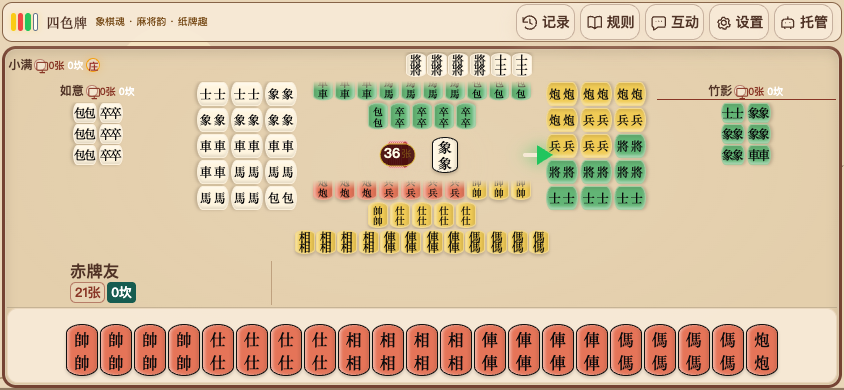
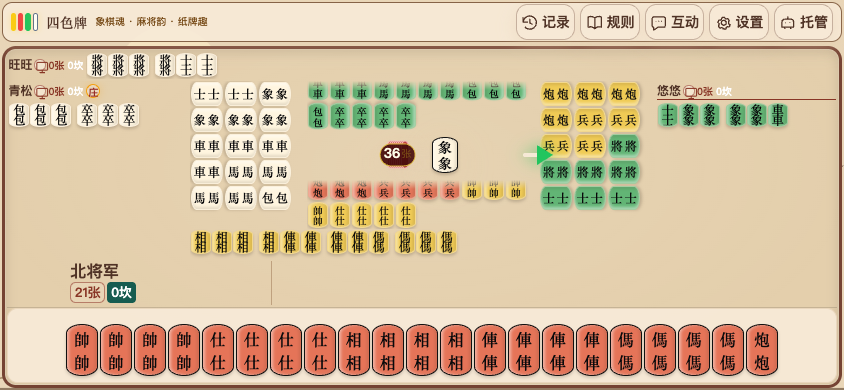
fix: arrange mahjong melds in natural reading order

Changed region(s): [[0.0, 0.1231, 0.955, 0.6769], [0.0616, 0.6769, 0.154, 0.7385], [0.0, 0.1538, 0.0616, 0.1846]]

diff --git a/tests/e2e/mahjong-appearance.spec.ts b/tests/e2e/mahjong-appearance.spec.ts
@@ -146,9 +146,10 @@ for (const mode of ['long', 'large']) test(`mahjong ${mode} color labels stay up
   }
 });
 
-test('rotated river flights land on the exact face and defer layout changes until finished', async ({ page }) => {
+for (const zone of ['flow', 'meld'] as const) test(`${zone === 'flow' ? 'rotated river' : 'horizontal meld'} flights land on the exact face and defer layout changes until finished`, async ({ page }) => {
   await page.setViewportSize({ width: 844, height: 390 });
-  await start(page, 'mahjong', 'long', false);
+  await start(page, 'mahjong', zone === 'meld' ? 'large' : 'long', false);
+  const destination = zone === 'meld' ? '.group-block-list' : '.flow-card';
   for (const side of ['left', 'top', 'right']) {
     const playerId = await page.getByTestId(`player-${side}`).getAttribute('data-player-id');
     const card = { id: `flight-to-${side}`, color: 'white', type: 'ma', source: 'deck' };
@@ -160,21 +161,23 @@ test('rotated river flights land on the exact face and defer layout changes unti
         tablePresentationVersion: 1, previousPlayerId: '', pollOriginPlayerId: '', lastAction: 'MAHJONG_FLIGHT_FIXTURE' }, 'explicit');
     }, card);
     await expect(page.locator(`.response-card-face[data-face-id="${card.id}"]`)).toBeVisible();
-    await page.evaluate(({ card, playerId }) => {
+    await page.evaluate(({ card, playerId, zone }) => {
       const bridge = (window as any).__siseLocalTest;
       const state = bridge.getRoomState();
       const now = Date.now();
       bridge.applyRoomSnapshot({ stateRevision: state.stateRevision + 1, responseCard: null, targetCard: null,
-        players: state.players.map((p: any) => p.clientId === playerId ? { ...p, discardPile: [...p.discardPile, card] } : p),
+        players: state.players.map((p: any) => p.clientId === playerId ? (zone === 'flow' ? { ...p, discardPile: [...p.discardPile, card] } : { ...p,
+          exposedArea: [...p.exposedArea, card, { ...card, id: `${card.id}-2` }, { ...card, id: `${card.id}-3` }],
+          exposedGroupSizes: [...p.exposedGroupSizes, 3], exposedGroupKinds: [...p.exposedGroupKinds, 'chi'] }) : p),
         serverNow: now, tableTransitions: [{ id: state.stateRevision + 1, round: state.completedRounds + 1,
-          kind: 'discard', startsAt: now, endsAt: now + 3000,
-          moves: [{ card, from: { zone: 'center' }, to: { zone: 'flow', playerId } }] }] }, 'explicit');
-    }, { card, playerId });
+          kind: zone === 'meld' ? 'chi' : 'discard', startsAt: now, endsAt: now + 3000,
+          moves: [{ card, from: { zone: 'center' }, to: { zone, playerId } }] }] }, 'explicit');
+    }, { card, playerId, zone });
     const flight = page.locator(`[data-transition-card-id="${card.id}"]`);
     await expect(flight).toHaveAttribute('data-transition-stage', 'landed');
-    const match = await page.evaluate(id => {
+    const match = await page.evaluate(({ id, destination }) => {
       const face = document.querySelector<HTMLElement>(`[data-transition-card-id="${id}"] .card`)!;
-      const landing = document.querySelector<HTMLElement>(`.flow-card [data-face-id="${id}"]`)!;
+      const landing = document.querySelector<HTMLElement>(`${destination} [data-face-id="${id}"]`)!;
       const a = face.getBoundingClientRect(), b = landing.getBoundingClientRect();
       return { delta: Math.max(Math.abs(a.left - b.left), Math.abs(a.top - b.top), Math.abs(a.width - b.width), Math.abs(a.height - b.height)),
         transform: getComputedStyle(face).transform,
@@ -186,7 +189,7 @@ test('rotated river flights land on the exact face and defer layout changes unti
             + Math.atan2(textMatrix.b, textMatrix.a) * 180 / Math.PI;
           return Math.abs(total % 360) < 0.01;
         }) };
-    }, card.id);
+    }, { id: card.id, destination });
     expect(match.textUpright).toBe(true);
     expect(match.delta).toBeLessThanOrEqual(1);
     expect(match.transform).not.toBe('none');
@@ -199,7 +202,7 @@ test('rotated river flights land on the exact face and defer layout changes unti
       await page.getByRole('button', { name: '关闭设置', exact: true }).click();
     }
     await expect(flight).toHaveCount(0);
-    await expect(page.locator(`.flow-card [data-face-id="${card.id}"]`)).toBeVisible();
+    await expect(page.locator(`${destination} [data-face-id="${card.id}"]`)).toBeVisible();
   }
   await expect(page.getByTestId('game-board')).toHaveAttribute('data-table-layout', 'classic');
 });
@@ -293,7 +296,16 @@ for (const mode of ['long', 'large']) test(`twelve eats at every seat are comple
         requestAnimationFrame(() => requestAnimationFrame(() => resolve())))));
       const overview = await area.evaluate(el => {
         const b = el.getBoundingClientRect();
-        return { overflow: el.scrollWidth > el.clientWidth + 1 || el.scrollHeight > el.clientHeight + 1,
+        const groups = [...el.querySelectorAll<HTMLElement>('.group-block')];
+        const horizontal = groups.every(group => {
+          const cards = [...group.querySelectorAll<HTMLElement>('.mini-card')];
+          return cards.every((card, i) => getComputedStyle(card).rotate === '0deg'
+            && Math.abs(card.offsetTop - cards[0]!.offsetTop) <= 1
+            && (!i || card.offsetLeft > cards[i - 1]!.offsetLeft));
+        });
+        const readingOrder = groups.every((group, i) => !i || group.offsetTop > groups[i - 1]!.offsetTop
+          || (group.offsetTop === groups[i - 1]!.offsetTop && group.offsetLeft > groups[i - 1]!.offsetLeft));
+        return { horizontal, readingOrder, overflow: el.scrollWidth > el.clientWidth + 1 || el.scrollHeight > el.clientHeight + 1,
           cards: [...el.querySelectorAll('.mini-card')].map(card => {
             const r = card.getBoundingClientRect();
             return { visible: r.left >= b.left - 1 && r.right <= b.right + 1 && r.top >= b.top - 1 && r.bottom <= b.bottom + 1,
@@ -308,6 +320,8 @@ for (const mode of ['long', 'large']) test(`twelve eats at every seat are comple
         }))));
         await page.screenshot({ path: info.outputPath('overview-failure.png') });
       }
+      expect(overview.horizontal, `${side} ${mode} each meld reads horizontally`).toBe(true);
+      expect(overview.readingOrder, `${side} ${mode} melds read left to right then down`).toBe(true);
       expect(overview.overflow, `${side} ${mode} ${width}x${height} overflow`).toBe(false);
       expect(overview.cards.every(card => card.visible && card.font >= 9.99), `${side} ${mode} ${width}x${height} complete readable overview`).toBe(true);
       if (side === 'left' || side === 'right') {
@@ -342,9 +356,9 @@ for (const mode of ['long', 'large']) test(`twelve eats at every seat are comple
   }
 });
 
-test('mahjong overflow keeps every card reachable at a readable minimum size', async ({ page }) => {
+for (const mode of ['long', 'large']) test(`mahjong ${mode} overflow keeps every card reachable at a readable minimum size`, async ({ page }) => {
   await page.setViewportSize({ width: 375, height: 667 });
-  await start(page);
+  await start(page, 'mahjong', mode);
   for (const side of ['self', 'left', 'top', 'right']) {
     const area = await manyMelds(page, side, 28);
     await expect.poll(() => area.evaluate(el => el.scrollHeight > el.clientHeight + 1)).toBe(true);
@@ -363,10 +377,10 @@ test('mahjong overflow keeps every card reachable at a readable minimum size', a
   }
 });
 
-test('touch swipes reach overflowing eats after portrait rotation', async ({ page, browserName }) => {
+for (const mode of ['long', 'large']) test(`touch swipes reach overflowing ${mode} eats after portrait rotation`, async ({ page, browserName }) => {
   test.skip(browserName !== 'chromium', 'Native CDP touch injection; every group is also checked in WebKit.');
   await page.setViewportSize({ width: 375, height: 667 });
-  await start(page);
+  await start(page, 'mahjong', mode);
   const session = await page.context().newCDPSession(page);
   await session.send('Emulation.setTouchEmulationEnabled', { enabled: true });
   for (const side of ['self', 'left', 'top', 'right']) {

diff --git a/client/src/mahjong.css b/client/src/mahjong.css
@@ -39,7 +39,7 @@
 .board[data-table-layout="mahjong"] :is(.player-card, .flow-card, .self-groups-card, .center, .center-board, .group-block, .self-hand-card, .self-command-row) { background: transparent; border: 0; box-shadow: none; border-radius: 0; }
 .board[data-table-layout="mahjong"] .player-card { display: flex; flex-direction: column; width: 100%; height: 100%; min-width: 0; min-height: 0; padding: 1px; gap: 2px; overflow: hidden; }
 .board[data-table-layout="mahjong"] .seat-head { flex: 0 0 auto; width: 100%; min-height: 18px; gap: 2px; }
-.board[data-table-layout="mahjong"] .player-card .seat-identity { display: flex; flex: 1; align-items: center; justify-content: center; flex-wrap: nowrap; gap: 2px; }
+.board[data-table-layout="mahjong"] .player-card .seat-identity { display: flex; flex: 1; align-items: center; justify-content: flex-start; flex-wrap: nowrap; gap: 2px; }
 .board[data-table-layout="mahjong"] .player-card .seat-identity > strong { flex: 0 1 auto; font-size: 12px; line-height: 16px; }
 .board[data-table-layout="mahjong"] .player-card .seat-identity-meta { display: flex; flex-wrap: nowrap; gap: 1px; }
 .board[data-table-layout="mahjong"] .player-card :is(.hand-count-badge, .kan-count-badge) { min-width: 0; min-height: 0; padding: 0 1px; border: 0; background: transparent; font-size: 10px; line-height: 14px; }
@@ -61,8 +61,8 @@
   flex: 1 1 auto;
   flex-direction: row;
   flex-wrap: wrap;
-  gap: 2px;
-  justify-content: center;
+  gap: 2px 6px;
+  justify-content: flex-start;
   align-content: flex-start;
   min-width: 0;
   min-height: 0;
@@ -76,7 +76,7 @@
 }
 .board[data-table-layout="mahjong"] .player-top .group-block-list { width: auto; }
 .board[data-table-layout="mahjong"] .group-block { position: relative; flex: 0 0 auto; min-height: 0; padding: 0; gap: 1px; }
-.board[data-table-layout="mahjong"] .mini-card-strip { flex-wrap: nowrap; gap: 1px; padding: 0; }
+.board[data-table-layout="mahjong"] .mini-card-strip { flex-direction: row; flex-wrap: nowrap; gap: 1px; padding: 0; }
 .board[data-table-layout="mahjong"] :is(.player-card, .self-groups-card) .mini-card {
   box-sizing: border-box;
   min-width: 0;
@@ -87,18 +87,15 @@
   margin: 0;
   padding: 0;
   border-width: 1px;
-  rotate: var(--mahjong-card-angle);
+  --mahjong-card-angle: 0deg;
+  rotate: 0deg;
 }
 .board[data-table-layout="mahjong"] .mini-card-strip .mini-card + .mini-card { margin: 0; }
 .board[data-table-layout="mahjong"] .mini-card :deep(.text) { padding: 0; }
 .board[data-table-layout="mahjong"] .group-badge { min-width: 12px; width: 12px; height: 14px; font-size: 10px; }
-.board[data-table-layout="mahjong"] :is(.player-left, .player-right) .mini-card-strip { flex-direction: column; }
-.board[data-table-layout="mahjong"] :is(.player-left, .player-right) .mini-card-strip .mini-card { margin: -2px 2px; }
 .board[data-table-layout="mahjong"].meld-color-assist { --mahjong-top-height: 44px; --mahjong-self-height: 44px; }
 .board[data-table-layout="mahjong"].meld-color-assist .mini-card.mode-long { height: 40px; }
 .board[data-table-layout="mahjong"].meld-color-assist .mini-card.mode-large { height: 32px; }
-.board[data-table-layout="mahjong"].meld-color-assist :is(.player-left, .player-right) .mini-card.mode-long { margin: -10px 10px; }
-.board[data-table-layout="mahjong"].meld-color-assist :is(.player-left, .player-right) .mini-card.mode-large { margin: -6px 6px; }
 .board[data-table-layout="mahjong"] .self-groups-card { padding: 0; overflow: hidden; }
 .board[data-table-layout="mahjong"].rotated-scroll .group-block-list { touch-action: none; }
 
@@ -109,7 +106,7 @@
 .board[data-table-layout="mahjong"] [data-flow-side="bottom"] { grid-area: riverbottom; }
 .board[data-table-layout="mahjong"] [data-flow-side="left"] { grid-area: riverleft; --mahjong-card-angle: 90deg; }
 .board[data-table-layout="mahjong"] [data-flow-side="right"] { grid-area: riverright; --mahjong-card-angle: -90deg; }
-.board[data-table-layout="mahjong"] .discard-strip { justify-content: center; padding: 1px; }
+.board[data-table-layout="mahjong"] .discard-strip { justify-content: flex-start; padding: 1px; }
 .board[data-table-layout="mahjong"] .discard-token { rotate: var(--mahjong-card-angle); }
 .board[data-table-layout="mahjong"] :is([data-flow-side="left"], [data-flow-side="right"]) .discard-token.mode-long { margin: calc(-4px * var(--flow-scale, 1)) calc(4px * var(--flow-scale, 1)); }
 .board[data-table-layout="mahjong"] .center { width: 100%; height: 100%; min-height: 0; margin: 0; padding: 0; }

diff --git a/client/src/components/GameBoard.vue.js b/client/src/components/GameBoard.vue.js
@@ -326,7 +326,7 @@ function flowSide(receiverId) {
     return playerSide(flowOwner(receiverId)?.clientId ?? "");
 }
 function tableLocationRotation(location) {
-    if (appliedTableLayout.value !== "mahjong" || !["flow", "meld"].includes(location.zone))
+    if (appliedTableLayout.value !== "mahjong" || location.zone !== "flow")
         return 0;
     return { bottom: 0, left: 90, top: 180, right: -90 }[playerSide(location.playerId ?? "")];
 }
@@ -1308,17 +1308,15 @@ function updateMahjongMeldLayout() {
         const groups = [...list.querySelectorAll('.group-block')].map(group => `${group.querySelectorAll('.mini-card').length}:${group.querySelector('.group-badge')?.textContent ?? ''}`).join('|');
         const key = `${list.clientWidth}:${list.clientHeight}:${groups}:${appliedTableCardMode.value}:${props.showCardColorAssist}`;
         const cards = [...list.querySelectorAll('.mini-card')];
-        const sideways = Boolean(list.closest('.player-left, .player-right'));
         // Preserve two 12px names and the fixed 9px seal, even at the 10px
         // readability floor. Large faces need room for one 1.32em name plus seal.
         const height = props.showCardColorAssist ? (appliedTableCardMode.value === 'long' ? 40 : 32) : 24;
-        const sidewaysMargin = (height - 20) / 2;
         const applyScale = (scale) => {
             list.style.setProperty('--meld-scale', String(scale));
             // Size the same card boxes measured below; CSS clears their automatic
             // minimum sizes so intrinsic content cannot clamp the fitted dimensions.
             const sizes = { width: `${20 * scale}px`, height: `${height * scale}px`,
-                'font-size': `${12 * scale}px`, margin: sideways ? `${-sidewaysMargin * scale}px ${sidewaysMargin * scale}px` : '0px' };
+                'font-size': `${12 * scale}px`, margin: '0px' };
             cards.forEach(card => Object.entries(sizes).forEach(([property, value]) => {
                 if (card.style.getPropertyValue(property) !== value)
                     card.style.setProperty(property, value);

diff --git a/client/src/components/GameBoard.vue b/client/src/components/GameBoard.vue
@@ -1268,7 +1268,7 @@ function flowSide(receiverId: string) {
 }
 
 function tableLocationRotation(location: TableLocation): number {
-  if (appliedTableLayout.value !== "mahjong" || !["flow", "meld"].includes(location.zone)) return 0;
+  if (appliedTableLayout.value !== "mahjong" || location.zone !== "flow") return 0;
   return { bottom: 0, left: 90, top: 180, right: -90 }[playerSide(location.playerId ?? "")];
 }
 
@@ -2311,17 +2311,15 @@ function updateMahjongMeldLayout(): void {
     const groups = [...list.querySelectorAll('.group-block')].map(group => `${group.querySelectorAll('.mini-card').length}:${group.querySelector('.group-badge')?.textContent ?? ''}`).join('|');
     const key = `${list.clientWidth}:${list.clientHeight}:${groups}:${appliedTableCardMode.value}:${props.showCardColorAssist}`;
     const cards = [...list.querySelectorAll<HTMLElement>('.mini-card')];
-    const sideways = Boolean(list.closest('.player-left, .player-right'));
     // Preserve two 12px names and the fixed 9px seal, even at the 10px
     // readability floor. Large faces need room for one 1.32em name plus seal.
     const height = props.showCardColorAssist ? (appliedTableCardMode.value === 'long' ? 40 : 32) : 24;
-    const sidewaysMargin = (height - 20) / 2;
     const applyScale = (scale: number) => {
       list.style.setProperty('--meld-scale', String(scale));
       // Size the same card boxes measured below; CSS clears their automatic
       // minimum sizes so intrinsic content cannot clamp the fitted dimensions.
       const sizes = { width: `${20 * scale}px`, height: `${height * scale}px`,
-        'font-size': `${12 * scale}px`, margin: sideways ? `${-sidewaysMargin * scale}px ${sidewaysMargin * scale}px` : '0px' };
+        'font-size': `${12 * scale}px`, margin: '0px' };
       cards.forEach(card => Object.entries(sizes).forEach(([property, value]) => {
         if (card.style.getPropertyValue(property) !== value) card.style.setProperty(property, value);
       }));

diff --git a/docs/validation/mahjong-layout/README.md b/docs/validation/mahjong-layout/README.md
@@ -4,6 +4,9 @@
 
 ## 检查内容
 
+- 四家明示牌统一横向整组排列，多组从左到右、从上到下靠左换行；组间横向留白 6px 大于组内 1px。玩家姓名与牌组起点对齐，流水每行从左开始，减少扫视时的跳动。
+- 移动端优先验证大字模式：640×350、667×375、844×390、932×430、390×844，覆盖 12 组完整显示和 28 组滚动，包含颜色辅助及吃牌飞行落点。
+
 - 阈值精确边界、默认值、保存与恢复、固定布局和窗口/方向变化。
 - 四种皮肤、两种牌型、流水归属、空流水、新流水自动进入视野、顺逆时针座位方向。
 - 每家 15 张流水、21 张手牌和多组明示牌，检查区域不重叠、牌可滚动查看。
@@ -11,10 +14,12 @@
 - 在 640×350、667×375、390×844、1440×900 下验证 12 组所有牌面首屏完整可见：不执行滚动、不允许区域溢出；玩家身份、流水、当前牌与操作区不被挤走。左右姓名/状态栏不超过 20px 高，牌组使用超过 90% 的座位宽度。
 - 另用 28 组吃牌测试极端滚动兜底：Chrome / WebKit 逐组检查全部牌面可达，字体不低于 10px；Chromium 原生触摸注入验证四个座位在竖屏旋转后都能拖动。大量吃牌旁的翻页手牌仍保留至少 28×44px 触摸区域。
 - 21 / 14 / 5 张手牌及声明标记在 568×320、640×350、350×640、667×375 下完整可见；普通手机保留手牌放大空间，矮桌面使用 44px 自然牌高并预留标记空间。
-- 麻将模式所有牌面文字保持正向：四家流水、明示牌、自己的手牌、长牌上下文字及颜色辅助字；牌框保留座位朝向。飞牌复制目标字向，切回经典恢复原有上下字向。
+- 麻将模式所有牌面文字保持正向：四家流水、明示牌、自己的手牌、长牌上下文字及颜色辅助字；明示牌牌框也正向显示，流水牌框保留座位朝向。飞牌复制目标字向，切回经典恢复原有上下字向。
 - 左、右、对家旋转飞牌与最终牌面的矩形误差 ≤ 1px；动画结束前不切换实际布局。
 
 ## 结果
+
+- 横排阅读优化：构建通过；移动端大字优先的双浏览器检查 12 项通过，长牌兼容与两种牌型滚动/触摸补充回归 18 项通过、2 项跳过（WebKit 不支持 CDP 触摸注入）；新增横向整组和阅读顺序断言。
 
 - 牌面文字正向修复：构建通过，合入颜色辅助空间修复后，Chrome / WebKit 拥挤流水、旋转飞牌、十二组吃牌、颜色辅助字无遮挡及切回经典字向恢复共 18 项通过；手机和桌面截图已刷新。
 
@@ -40,12 +45,12 @@ PLAYWRIGHT_CHANNEL=chrome npx playwright test \
 
 ## 截图
 
-- [普通手机麻将桌](mahjong-long-844x390.png)
+- [普通手机麻将桌（大字模式）](mahjong-large-844x390.png)
 - [竖屏麻将桌](mahjong-large-390x844.png)
-- [桌面手动选择麻将布局](mahjong-long-1440x900.png)
+- [桌面手动选择麻将布局（大字模式）](mahjong-large-1440x900.png)
 - [桌面自适应选择经典](adaptive-classic-desktop.png)
-- [自己 12 组吃牌，首屏完整显示](twelve-eats-self-long-667x375.png)
+- [自己 12 组吃牌，首屏完整显示](twelve-eats-self-large-667x375.png)
 - [对家 12 组吃牌，首屏完整显示](twelve-eats-top-large-667x375.png)
-- [上家 12 组吃牌，手机竖屏完整显示](twelve-eats-left-long-390x844.png)
-- [上家 12 组吃牌，手机横屏完整显示](twelve-eats-left-long-667x375.png)
-- [下家 12 组吃牌，手机横屏完整显示](twelve-eats-right-long-667x375.png)
+- [上家 12 组吃牌，手机竖屏完整显示](twelve-eats-left-large-390x844.png)
+- [上家 12 组吃牌，手机横屏完整显示](twelve-eats-left-large-667x375.png)
+- [下家 12 组吃牌，手机横屏完整显示](twelve-eats-right-large-667x375.png)
